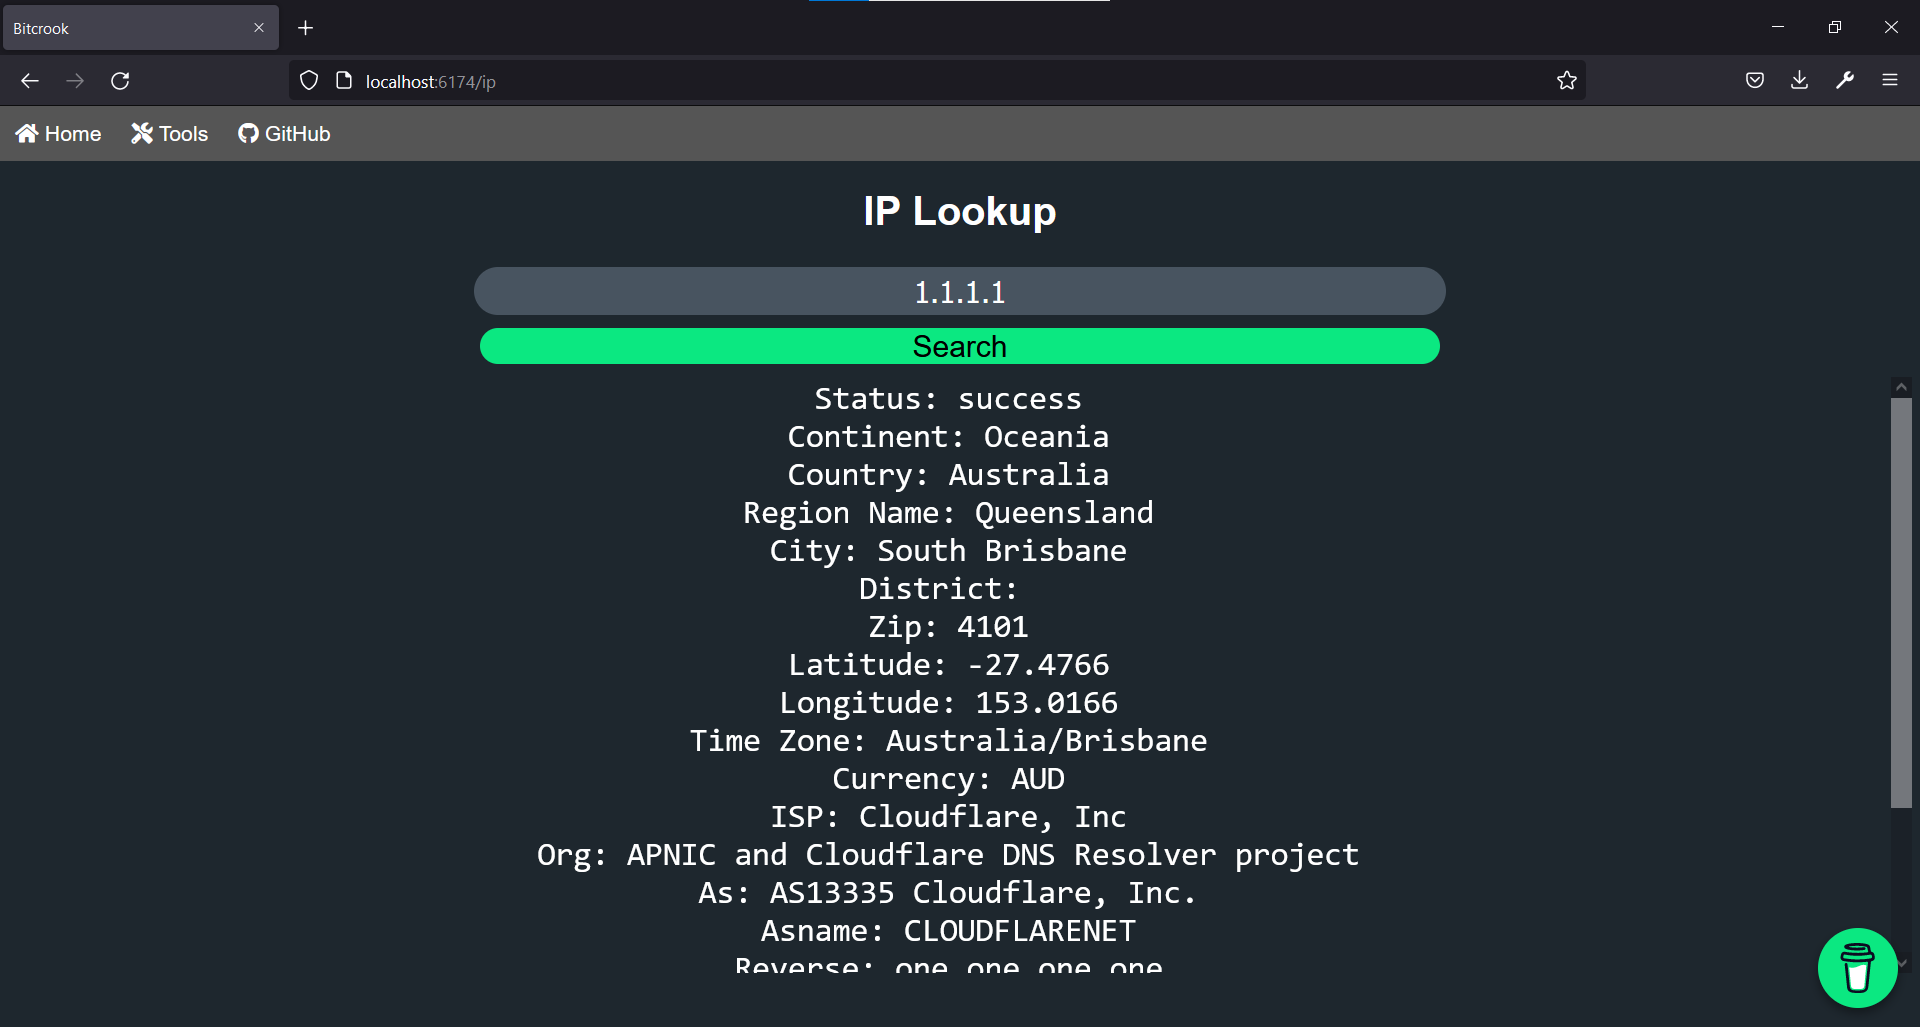
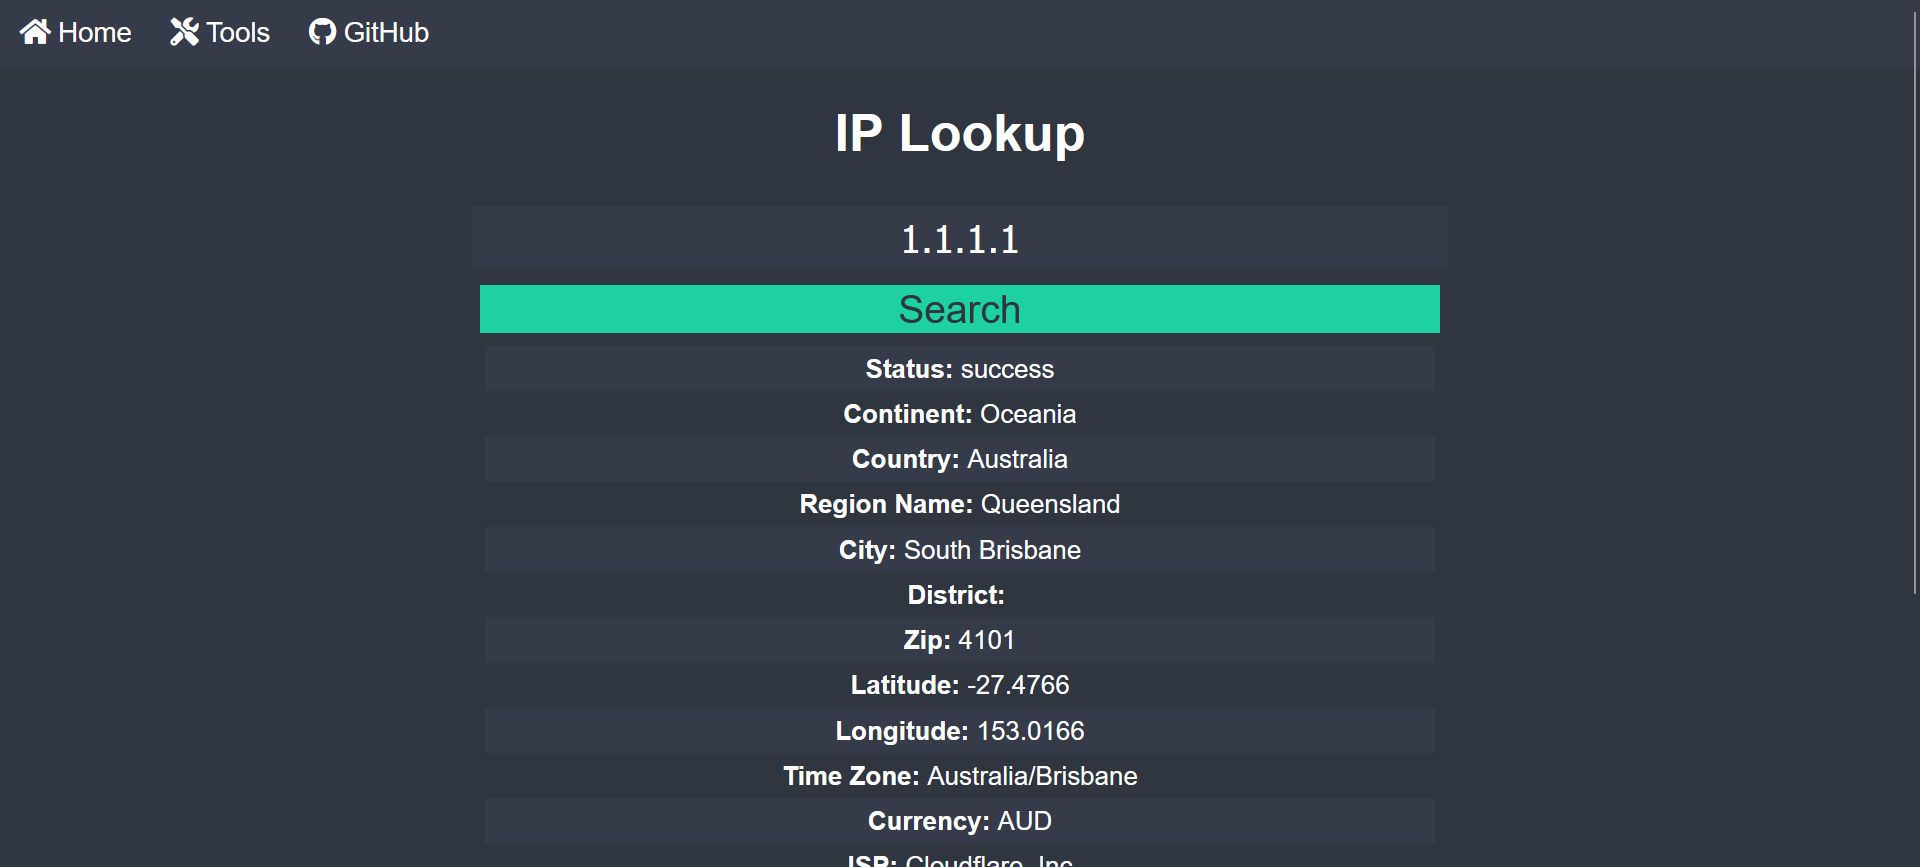
redo `ip gui`, remove `usage` page, update `prev`

diff --git a/api/public/js/app.js b/api/public/js/app.js
@@ -1,25 +1,27 @@
 $('#ipsearch').on('click', () => {
     ip = $('#ip').val()
     $.getJSON('http://localhost:6174/ip/' + ip, (res) => {
-        $('#ipresult').val("Status: " + res.status + "\n" +
-        "Continent: " + res.continent + "\n" +
-        "Country: " + res.country + "\n" +
-        "Region Name: " + res.regionname + "\n" +
-        "City: " + res.city + "\n" +
-        "District: " + res.district + "\n" +
-        "Zip: " + res.zip + "\n" +
-        "Latitude: " + res.lat + "\n" +
-        "Longitude: " + res.lon + "\n" +
-        "Time Zone: " + res.timezone + "\n" +
-        "Currency: " + res.currency + "\n" +
-        "ISP: " + res.isp + "\n" +
-        "Org: " + res.org + "\n" +
-        "As: " + res.as + "\n" +
-        "Asname: " + res.asname + "\n" +
-        "Reverse: " + res.reverse + "\n" +
-        "Mobile: " + res.mobile + "\n" +
-        "Proxy: " + res.proxy + "\n" +
-        "Hosting: " + res.hosting + "\n")
+        let iptable = document.getElementById('ipresult');
+        iptable.innerHTML = "";
+        iptable.innerHTML += "<span style='background-color: #353b48; display:flex; padding: 5px; justify-content: center'>" + "<strong>Status:&nbsp;</strong>" + res.status + "</span>";
+        iptable.innerHTML += "<span style='display:flex; padding: 5px; justify-content: center'>" + "<strong>Continent:&nbsp;</strong>" + res.continent + "</span>";
+        iptable.innerHTML += "<span style='background-color: #353b48; display:flex; padding: 5px; justify-content: center'>" + "<strong>Country:&nbsp;</strong>" + res.country + "</span>";
+        iptable.innerHTML += "<span style='display:flex; padding: 5px; justify-content: center'>" + "<strong>Region Name:&nbsp;</strong>" + res.regionname + "</span>";
+        iptable.innerHTML += "<span style='background-color: #353b48; display:flex; padding: 5px; justify-content: center'>" + "<strong>City:&nbsp;</strong>" + res.city + "</span>";
+        iptable.innerHTML += "<span style='display:flex; padding: 5px; justify-content: center'>" + "<strong>District:&nbsp;</strong>" + res.district + "</span>";
+        iptable.innerHTML += "<span style='background-color: #353b48; display:flex; padding: 5px; justify-content: center'>" + "<strong>Zip:&nbsp;</strong>" + res.zip + "</span>";
+        iptable.innerHTML += "<span style='display:flex; padding: 5px; justify-content: center'>" + "<strong>Latitude:&nbsp;</strong>" + res.lat + "</span>";
+        iptable.innerHTML += "<span style='background-color: #353b48; display:flex; padding: 5px; justify-content: center'>" + "<strong>Longitude:&nbsp;</strong>" + res.lon + "</span>";
+        iptable.innerHTML += "<span style='display:flex; padding: 5px; justify-content: center'>" + "<strong>Time Zone:&nbsp;</strong>" + res.timezone + "</span>";
+        iptable.innerHTML += "<span style='background-color: #353b48; display:flex; padding: 5px; justify-content: center'>" + "<strong>Currency:&nbsp;</strong>" + res.currency + "</span>";
+        iptable.innerHTML += "<span style='display:flex; padding: 5px; justify-content: center'>" + "<strong>ISP:&nbsp;</strong>" + res.isp + "</span>";
+        iptable.innerHTML += "<span style='background-color: #353b48; display:flex; padding: 5px; justify-content: center'>" + "<strong>Org:&nbsp;</strong>" + res.org + "</span>";
+        iptable.innerHTML += "<span style='display:flex; padding: 5px; justify-content: center'>" + "<strong>As:&nbsp;</strong>" + res.as + "</span>";
+        iptable.innerHTML += "<span style='background-color: #353b48; display:flex; padding: 5px; justify-content: center'>" + "<strong>Asname:&nbsp;</strong>" + res.asname + "</span>";
+        iptable.innerHTML += "<span style='display:flex; padding: 5px; justify-content: center'>" + "<strong>Reverse:&nbsp;</strong>" + res.reverse + "</span>";
+        iptable.innerHTML += "<span style='background-color: #353b48; display:flex; padding: 5px; justify-content: center'>" + "<strong>Mobile:&nbsp;</strong>" + res.mobile + "</span>";
+        iptable.innerHTML += "<span style='display:flex; padding: 5px; justify-content: center'>" + "<strong>Proxy:&nbsp;</strong>" + res.proxy + "</span>";
+        iptable.innerHTML += "<span style='background-color: #353b48; display:flex; padding: 5px; justify-content: center'>" + "<strong>Hosting:&nbsp;</strong>" + res.hosting + "</span>";
     })
     $('#ipresult').val('')
 })
@@ -64,16 +66,18 @@ $('#vinsearch').on('click', () => {
 $('#domainsearch').on('click', () => {
     domain = $('#domain').val()
     $.getJSON('http://localhost:6174/domain/' + domain, (res) => {
-        $('#domainresult').val("Domain: " + res.domain + "\n" +
-        "Domain ID: " + res.domain_id + "\n" +
-        "Status: " + res.status + "\n" + 
-        "Domain Age: " + res.domain_age + "\n" + 
-        "WHOIS Server: " + res.whois_server + "\n\n" +
+        let domaintable = document.getElementById('domainresult'); // need API key to continue testing
+        domaintable.innerHTML = "";
+        domaintable.innerHTML += "<span style='background-color: #353b48; display:flex; padding: 5px; justify-content: center'>" + "<strong>Domain:&nbsp;</strong>" + res.domain + "</span>";
+        domaintable.innerHTML += "<span style='display:flex; padding: 5px; justify-content: center'>" + "<strong>Domain ID:&nbsp;</strong>" + res.domain_id + "</span>";
+        domaintable.innerHTML += "<span style='background-color: #353b48; display:flex; padding: 5px; justify-content: center'>" + "<strong>Status:&nbsp;</strong>" + res.status + "</span>";
+        domaintable.innerHTML += "<span style='display:flex; padding: 5px; justify-content: center'>" + "<strong>Domain Age:&nbsp;</strong>" + res.domain_age + "</span>";
+        domaintable.innerHTML += "<span style='background-color: #353b48; display:flex; padding: 5px; justify-content: center'>" + "<strong>WHOIS Server:&nbsp;</strong>" + res.whois_server + "</span><br><br>";
         
-        "Registrar IANA ID: " + res.registrar.iana_id + "\n" + 
-        "Registrar Name: " + res.registrar.name + "\n" + 
-        "Registrar URL: " + res.registrar.url + "\n\n" +
-
+        domaintable.innerHTML += "<span style='background-color: #353b48; display:flex; padding: 5px; justify-content: center'>" + "<strong>Registrar IANA ID:&nbsp;</strong>" + res.registrar.iana_id + "</span>";
+        domaintable.innerHTML += "<span style='display:flex; padding: 5px; justify-content: center'>" + "<strong>Registrar Name:&nbsp;</strong>" + res.registrar.name + "</span>";
+        domaintable.innerHTML += "<span style='background-color: #353b48; display:flex; padding: 5px; justify-content: center'>" + "<strong>Registrar URL:&nbsp;</strong>" + res.registrar.url + "</span><br><br>";
+        /*
         "Registrant Name: " + res.registrant.name + "\n" +
         "Registrant Organization: " + res.registrant.organization + "\n" +
         "Registrant Street Address: " + res.registrant.street_address + "\n" +
@@ -118,7 +122,8 @@ $('#domainsearch').on('click', () => {
         "Billing Fax: " + res.billing.fax + "\n" +
         "Billing Email: " + res.billing.email + "\n\n" +
 
-        "Nameservers: " + res.nameservers)
+        "Nameservers: " + res.nameservers
+        */
     })
     $('#domainresult').val('') 
 })

diff --git a/api/public/css/style.css b/api/public/css/style.css
@@ -1,101 +1,89 @@
 html {
-    color: white;
-    display: table;
-    font-family: sans-serif;
-    height: 100%;
-    width: 100%;
-  }
-  
-  table {
-    padding-left: 5px
-  }
-  
-  h1 {
-    padding-left: 5px
-  }
-  h2 {
-    padding-left: 5px
-  }
-  h3 {
-    padding-left: 5px
-  }
-  p {
-    padding-left: 5px
-  }
-  
-  body {
-    display: table-cell;
-    margin: 2em auto;
-    background-color: #1e272e;
-  }
-  
-  a {
-    color: #05c46b
-  }
+  color: white;
+  display: table;
+  font-family: sans-serif;
+  height: 100%;
+  width: 100%;
+}
 
-  input {
-    background-color: #485460;
-    color: white;
-    width: 50px;
-  }
+h1 {
+  padding-left: 5px
+}
 
-  textarea {
-    color: white;
-    border: none;
-    overflow: auto;
-    outline: none;
+h2 {
+  padding-left: 5px
+}
 
-    -webkit-box-shadow: none;
-    -moz-box-shadow: none;
-    box-shadow: none;
+h3 {
+  padding-left: 5px
+}
 
-    resize: none; /*remove the resize handle on the bottom right*/
-    background-color: #1e272e; 
-    font-size: 200%;
-    text-align: center;
-  }
-  
-  th {
-    text-align: left;
-    font-size: 150%
-  }
-  
-  button {
-    background-color: #0be881;
-    color: white;
-  }
+p {
+  padding-left: 5px
+}
 
-  /* Style the navigation bar */
-  .navbar {
-    width: 100%;
-    background-color: #555;
-    overflow: auto;
-  }
-  
-  /* Navbar links */
+body {
+  display: table-cell;
+  margin: 2em auto;
+  background-color: #2f3640;
+}
+
+a {
+  color: #05c46b
+}
+
+input {
+  background-color: #353b48;
+  color: white;
+  width: 50px;
+}
+
+th {
+  text-align: left;
+  font-size: 150%
+}
+
+button {
+  background-color: #1dd1a1;
+  color: white;
+}
+
+button a:hover {
+  background-color: #10ac84;
+  color: white;
+}
+
+/* Style the navigation bar */
+.navbar {
+  width: 100%;
+  background-color: #353b48;
+  overflow: auto;
+}
+
+/* Navbar links */
+.navbar a {
+  float: left;
+  text-align: center;
+  padding: 12px;
+  color: white;
+  text-decoration: none;
+  font-size: 17px;
+}
+
+/* Navbar links on mouse-over */
+.navbar a:hover {
+  background-color: #10ac84;
+}
+
+/* Current/active navbar link */
+.active {
+  background-color: #1dd1a1;
+}
+
+/* Add responsiveness - will automatically display the navbar vertically instead of horizontally on screens less than 500 pixels */
+@media screen and (max-width: 500px) {
   .navbar a {
-    float: left;
-    text-align: center;
-    padding: 12px;
-    color: white;
-    text-decoration: none;
-    font-size: 17px;
+    float: none;
+    display: block;
   }
-  
-  /* Navbar links on mouse-over */
-  .navbar a:hover {
-    background-color: #05c46b;
-  }
-  
-  /* Current/active navbar link */
-  .active {
-    background-color: #0be881;
-  }
-  
-  /* Add responsiveness - will automatically display the navbar vertically instead of horizontally on screens less than 500 pixels */
-  @media screen and (max-width: 500px) {
-    .navbar a {
-      float: none;
-      display: block;
-    }
-  }
+}

diff --git a/api/views/pages/domain.html b/api/views/pages/domain.html
@@ -27,14 +27,18 @@
     </div>
     <h1 style="text-align: center; padding-left: 0px">Domain Lookup</h1>
     <div class="center-h">
-      <input style="padding: 5px; width: 50%; margin: 5px; height: 5%; text-align: center; font-size: 150%; border-radius: 25px; border-width: 0px;" spellcheck="false" autocomplete="off" id="domain" placeholder="Query Domain">
+      <input style="padding: 5px; width: 50%; margin: 5px; height: 5%; text-align: center; font-size: 150%; border-width: 0px;" spellcheck="false" autocomplete="off" id="domain" placeholder="Query domain ...">
     </div>  
     <div class="center-h">
-      <button style="font-family: Helvetica; width: 50%; margin: 5px; height: 10%; font-size: 150%; border-radius: 25px; border-width: 0px; color: black; cursor: pointer;" id="domainsearch">Search</button>
+      <button style="font-family: Helvetica; width: 50%; margin: 5px; height: 10%; font-size: 150%; border-width: 0px; color: #2f3640; cursor: pointer;" id="domainsearch">Search</button>
     </div>  
-    <div class="center-h"></div>
-      <textarea style="width: 99%; height: 60%; margin: 5px;" id="domainresult" data-role="none" rows="15" cols="1" readonly></textarea>
-    </div>  
+    <table style="width: 50%; margin: 0px auto">
+      <tr>
+        <td id="domainresult">
+
+        </td>
+      </tr>
+    </table> 
     <br>
     <script src="https://cdnjs.cloudflare.com/ajax/libs/jquery/3.5.1/jquery.min.js" integrity="sha256-9/aliU8dGd2tb6OSsuzixeV4y/faTqgFtohetphbbj0=" crossorigin="anonymous"></script>
     <script src="/js/app.js"></script>

diff --git a/api/views/pages/ip.html b/api/views/pages/ip.html
@@ -27,14 +27,18 @@
     </div>
     <h1 style="text-align: center; padding-left: 0px">IP Lookup</h1>
     <div class="center-h">
-      <input style="padding: 5px; width: 50%; margin: 5px; height: 5%; text-align: center; font-size: 150%; border-radius: 25px; border-width: 0px;" spellcheck="false" autocomplete="off" id="ip" placeholder="Query IP">
+      <input style="padding: 5px; width: 50%; margin: 5px; height: 5%; text-align: center; font-size: 150%; border-width: 0px;" spellcheck="false" autocomplete="off" id="ip" placeholder="Query IP ...">
     </div>  
     <div class="center-h">
-      <button style="font-family: Helvetica; width: 50%; margin: 5px; height: 10%; font-size: 150%; border-radius: 25px; border-width: 0px; color: black; cursor: pointer;" id="ipsearch">Search</button>
+      <button style="font-family: Helvetica; width: 50%; margin: 5px; height: 10%; font-size: 150%; border-width: 0px; color: #2f3640; cursor: pointer;" id="ipsearch">Search</button>
     </div>  
-    <div class="center-h"></div>
-      <textarea style="width: 99%; height: 60%; margin: 5px;" id="ipresult" data-role="none" rows="15" cols="1" readonly></textarea>
-    </div>  
+    <table style="width: 50%; margin: 0px auto">
+      <tr>
+        <td id="ipresult">
+
+        </td>
+      </tr>
+    </table>
     <br>
     <script src="https://cdnjs.cloudflare.com/ajax/libs/jquery/3.5.1/jquery.min.js" integrity="sha256-9/aliU8dGd2tb6OSsuzixeV4y/faTqgFtohetphbbj0=" crossorigin="anonymous"></script>
     <script src="/js/app.js"></script>

diff --git a/api/views/index.html b/api/views/index.html
@@ -22,7 +22,6 @@
 
   <body>
     <script type="text/javascript" src="/js/script.js"></script>
-    <script data-name="BMC-Widget" data-cfasync="false" src="https://cdnjs.buymeacoffee.com/1.0.0/widget.prod.min.js" data-id="maraudery" data-description="Support me on Buy me a coffee!" data-message="" data-color="#0be881" data-position="Right" data-x_margin="18" data-y_margin="18"></script>
     <div class="navbar">
       <a class="active" href="http://localhost:6174"><i class="fas fa-home"></i> Home</a>
       <a href="http://localhost:6174/tools"><i class="fas fa-tools"></i> Tools</a>

diff --git a/api/views/pages/tools.html b/api/views/pages/tools.html
@@ -13,7 +13,6 @@
 
   <body>
     <script type="text/javascript" src="/js/script.js"></script>
-    <script data-name="BMC-Widget" data-cfasync="false" src="https://cdnjs.buymeacoffee.com/1.0.0/widget.prod.min.js" data-id="maraudery" data-description="Support me on Buy me a coffee!" data-message="" data-color="#0be881" data-position="Right" data-x_margin="18" data-y_margin="18"></script>
     <div class="navbar">
       <a href="http://localhost:6174"><i class="fas fa-home"></i> Home</a>
       <a class="active" href="http://localhost:6174/tools"><i class="fas fa-tools"></i> Tools</a>

diff --git a/README.md b/README.md
@@ -5,7 +5,7 @@
   <p align="center">
     <a href="https://goreportcard.com/report/github.com/audioo/bitcrook"><img src="https://goreportcard.com/badge/github.com/audioo/bitcrook" alt="Go Report Card"></a>
     <a><img src="https://img.shields.io/badge/tests-9&#47;10-orange.svg" alt="Tests"></a>
-    <a><img src="https://img.shields.io/badge/version-0.9.11-blue.svg" alt="s"></a>
+    <a><img src="https://img.shields.io/badge/version-0.9.12-blue.svg" alt="s"></a>
     <a href="https://discord.com/invite/uVWJUTufqf"><img src="https://img.shields.io/badge/discord-chat-blue.svg" alt="Discord"></a><br>
     Centralize and expedite OSINT investigations<br>
   <a href="https://github.com/users/audioo/projects/1">Roadmap</a> | <a href="https://bitcrook.tech">Documentation</a><br>
